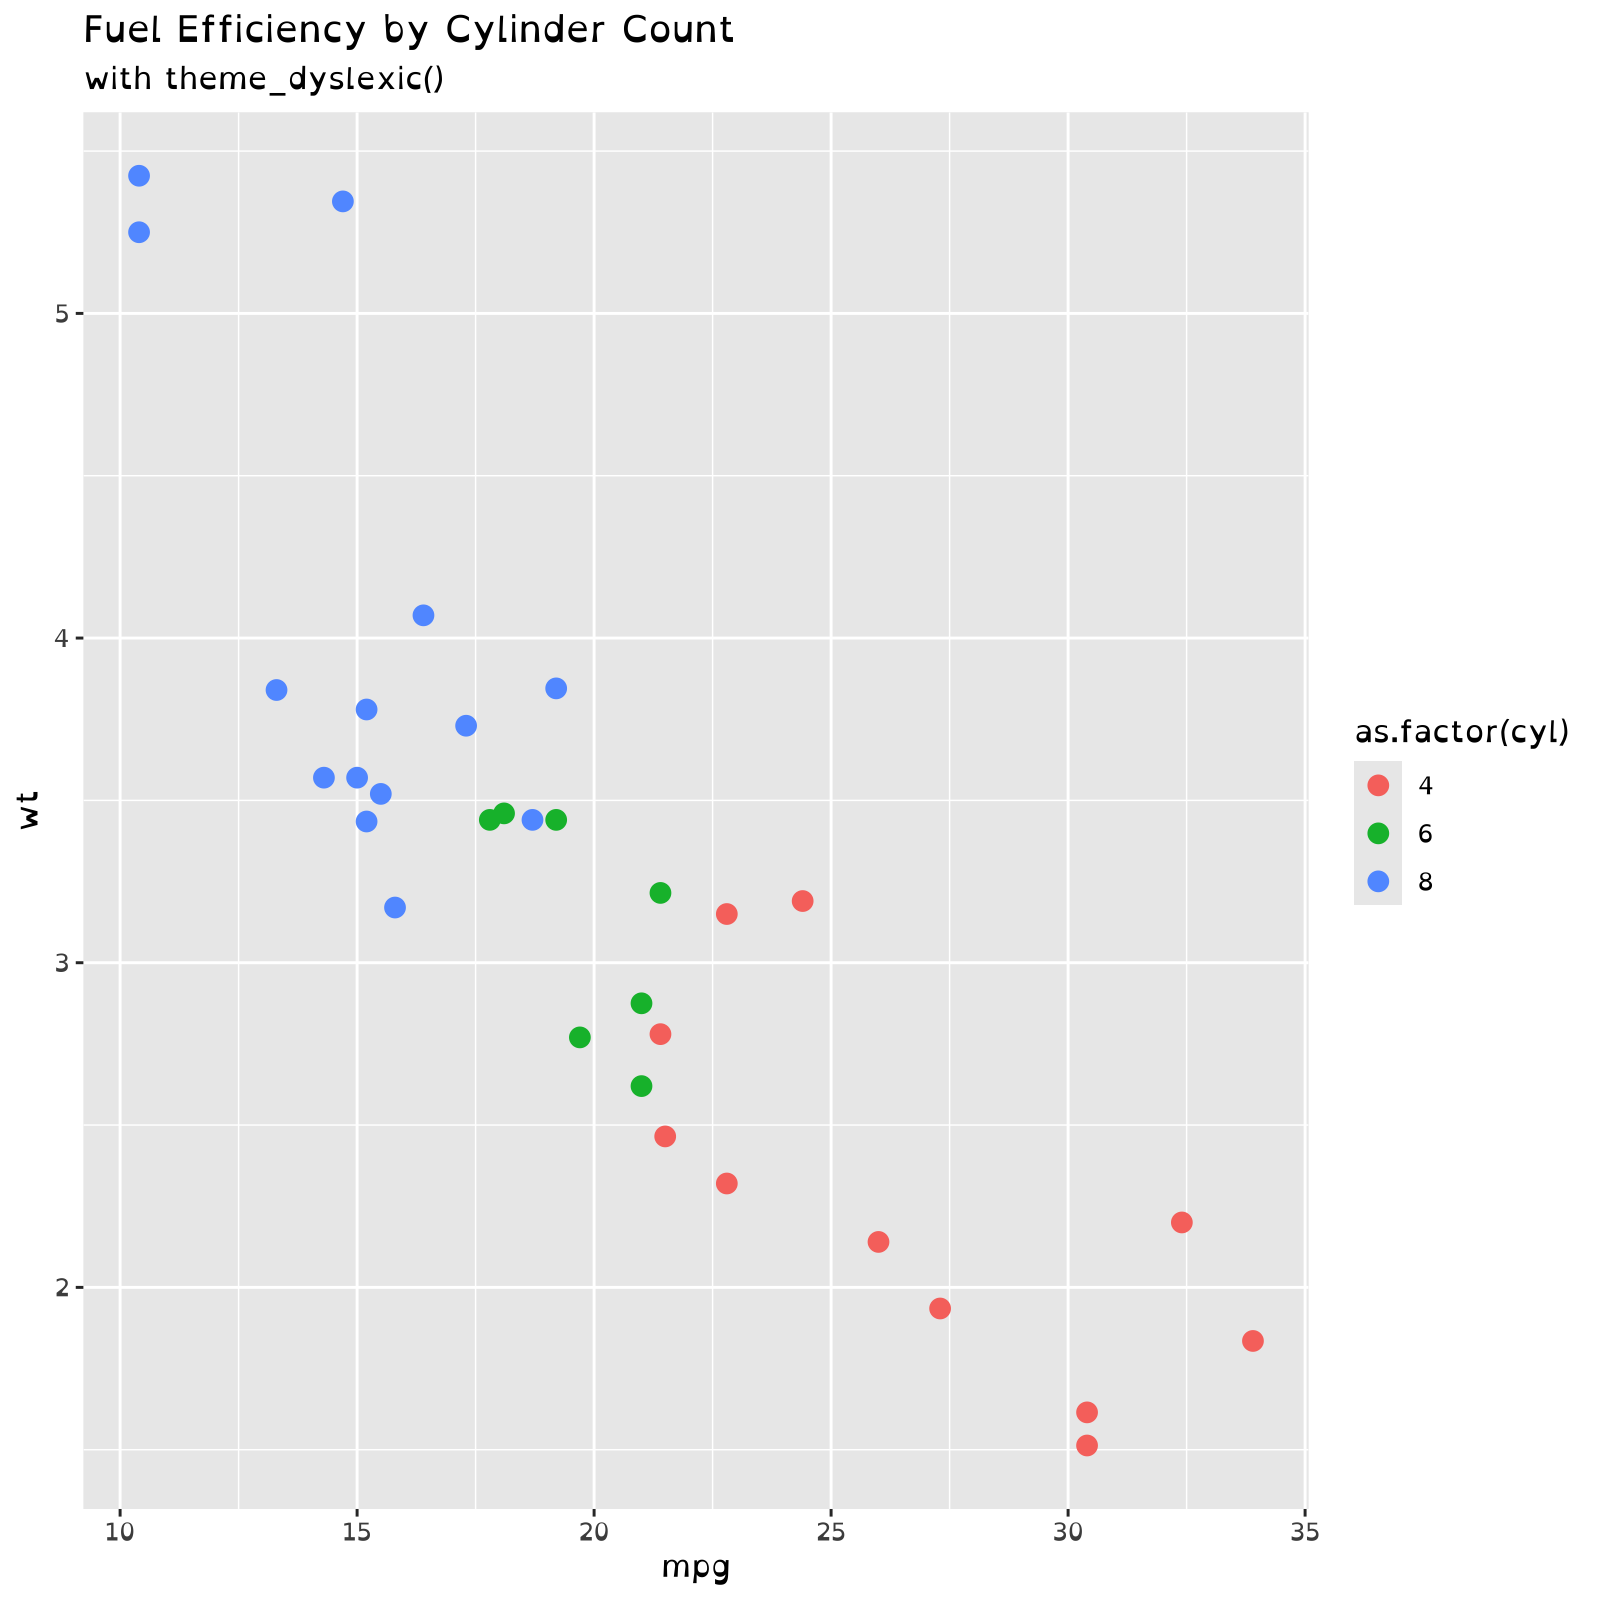
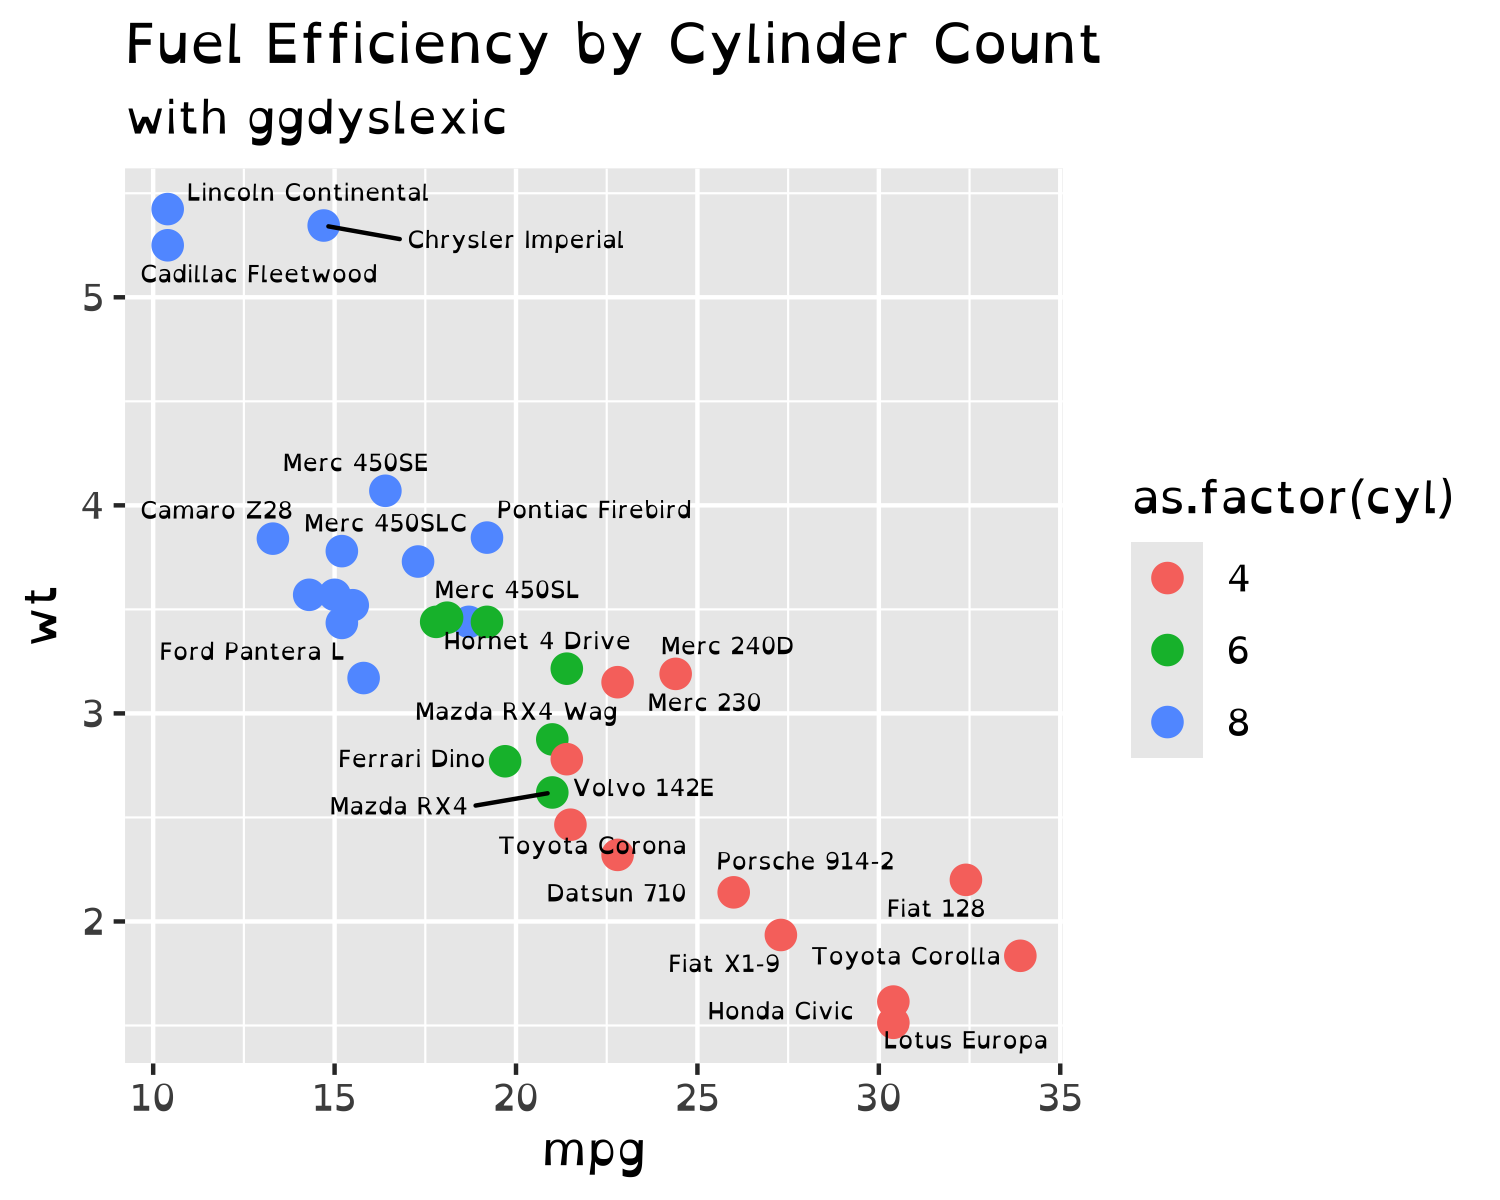
update use_dyslexic functionality

diff --git a/README.md b/README.md
@@ -9,26 +9,64 @@
 devtools::install_github("smorabit/ggdyslexic")
 ```
 
-## Quick start
+## Using ggdyslexic
 
-First, initialize the OpenDyslexic font (once per session) using `use_dyslexic()`, and then simply add `theme_dyslexic()` to any ggplot.
+To globally initialize the OpenDyslexic font for all ggplots, simply run `use_dyslexic()`. 
 
 ```r 
-
 library(ggplot2)
+library(ggrepel)
+library(patchwork)
 library(ggdyslexic)
 
-# enable the OpenDyslexic font (only need to run once per session)
-use_dyslexic()
+# globally activate the OpenDyslexic font (only need to run once per session)
+use_dyslexic(active = TRUE)
 
-# apply the theme
-ggplot(mtcars, aes(mpg, wt, color = as.factor(cyl))) +
+# create a ggplot
+p <- ggplot(mtcars, aes(mpg, wt, color = as.factor(cyl))) +
     geom_point(size = 3) +
+    ggrepel::geom_text_repel(label = rownames(mtcars), size=2, color='black') + 
     labs(title = "Fuel Efficiency by Cylinder Count",
-        subtitle = "with theme_dyslexic()") +
-    theme_dyslexic() 
+        subtitle = "with ggdyslexic") 
 
-
+print(p)
 ```
 
 ![mtcars dyslexic example ggplot](mtcars_dyslexic.png)
+
+To deactivate dyslexic plots, simply run `use_dyslexic(active = FALSE)`. With this approach, there is need to re-make the ggplot.
+
+```r
+# deactivate dyslexic font
+use_dyslexic(active = FALSE)
+print(p)
+```
+
+![mtcars dyslexic example ggplot](mtcars_nondyslexic.png)
+
+For further control over the fonts, you can explicitly set the theme and geom elements separately. We can run `use_dyslexic(active = FALSE, load_font = TRUE)`. In this 
+
+```r
+# load the OpenDyslexic font, but don't activate it globally
+use_dyslexic(active = FALSE, load_font = TRUE)
+
+# create a ggplot with OpenDyslexic as the geom_text_repel font
+p1 <- ggplot(mtcars, aes(mpg, wt, color = as.factor(cyl))) +
+    geom_point(size = 3) +
+    ggrepel::geom_text_repel(label = rownames(mtcars), size=2, color='black', family = 'OpenDyslexic') + 
+    labs(title = "Fuel Efficiency by Cylinder Count",
+        subtitle = "with ggdyslexic for geom_text_repel") 
+
+# create a ggplot with OpenDyslexic as the theme font
+p2 <- ggplot(mtcars, aes(mpg, wt, color = as.factor(cyl))) +
+    geom_point(size = 3) +
+    ggrepel::geom_text_repel(label = rownames(mtcars), size=2, color='black') + 
+    labs(title = "Fuel Efficiency by Cylinder Count",
+        subtitle = "with ggdyslexic for theme elements") +
+    theme(text = element_text(family = 'OpenDyslexic'))
+
+print(p1 + p2)
+
+```
+
+![mtcars dyslexic example ggplot](mtcars_dyslexic_explicit.png)
